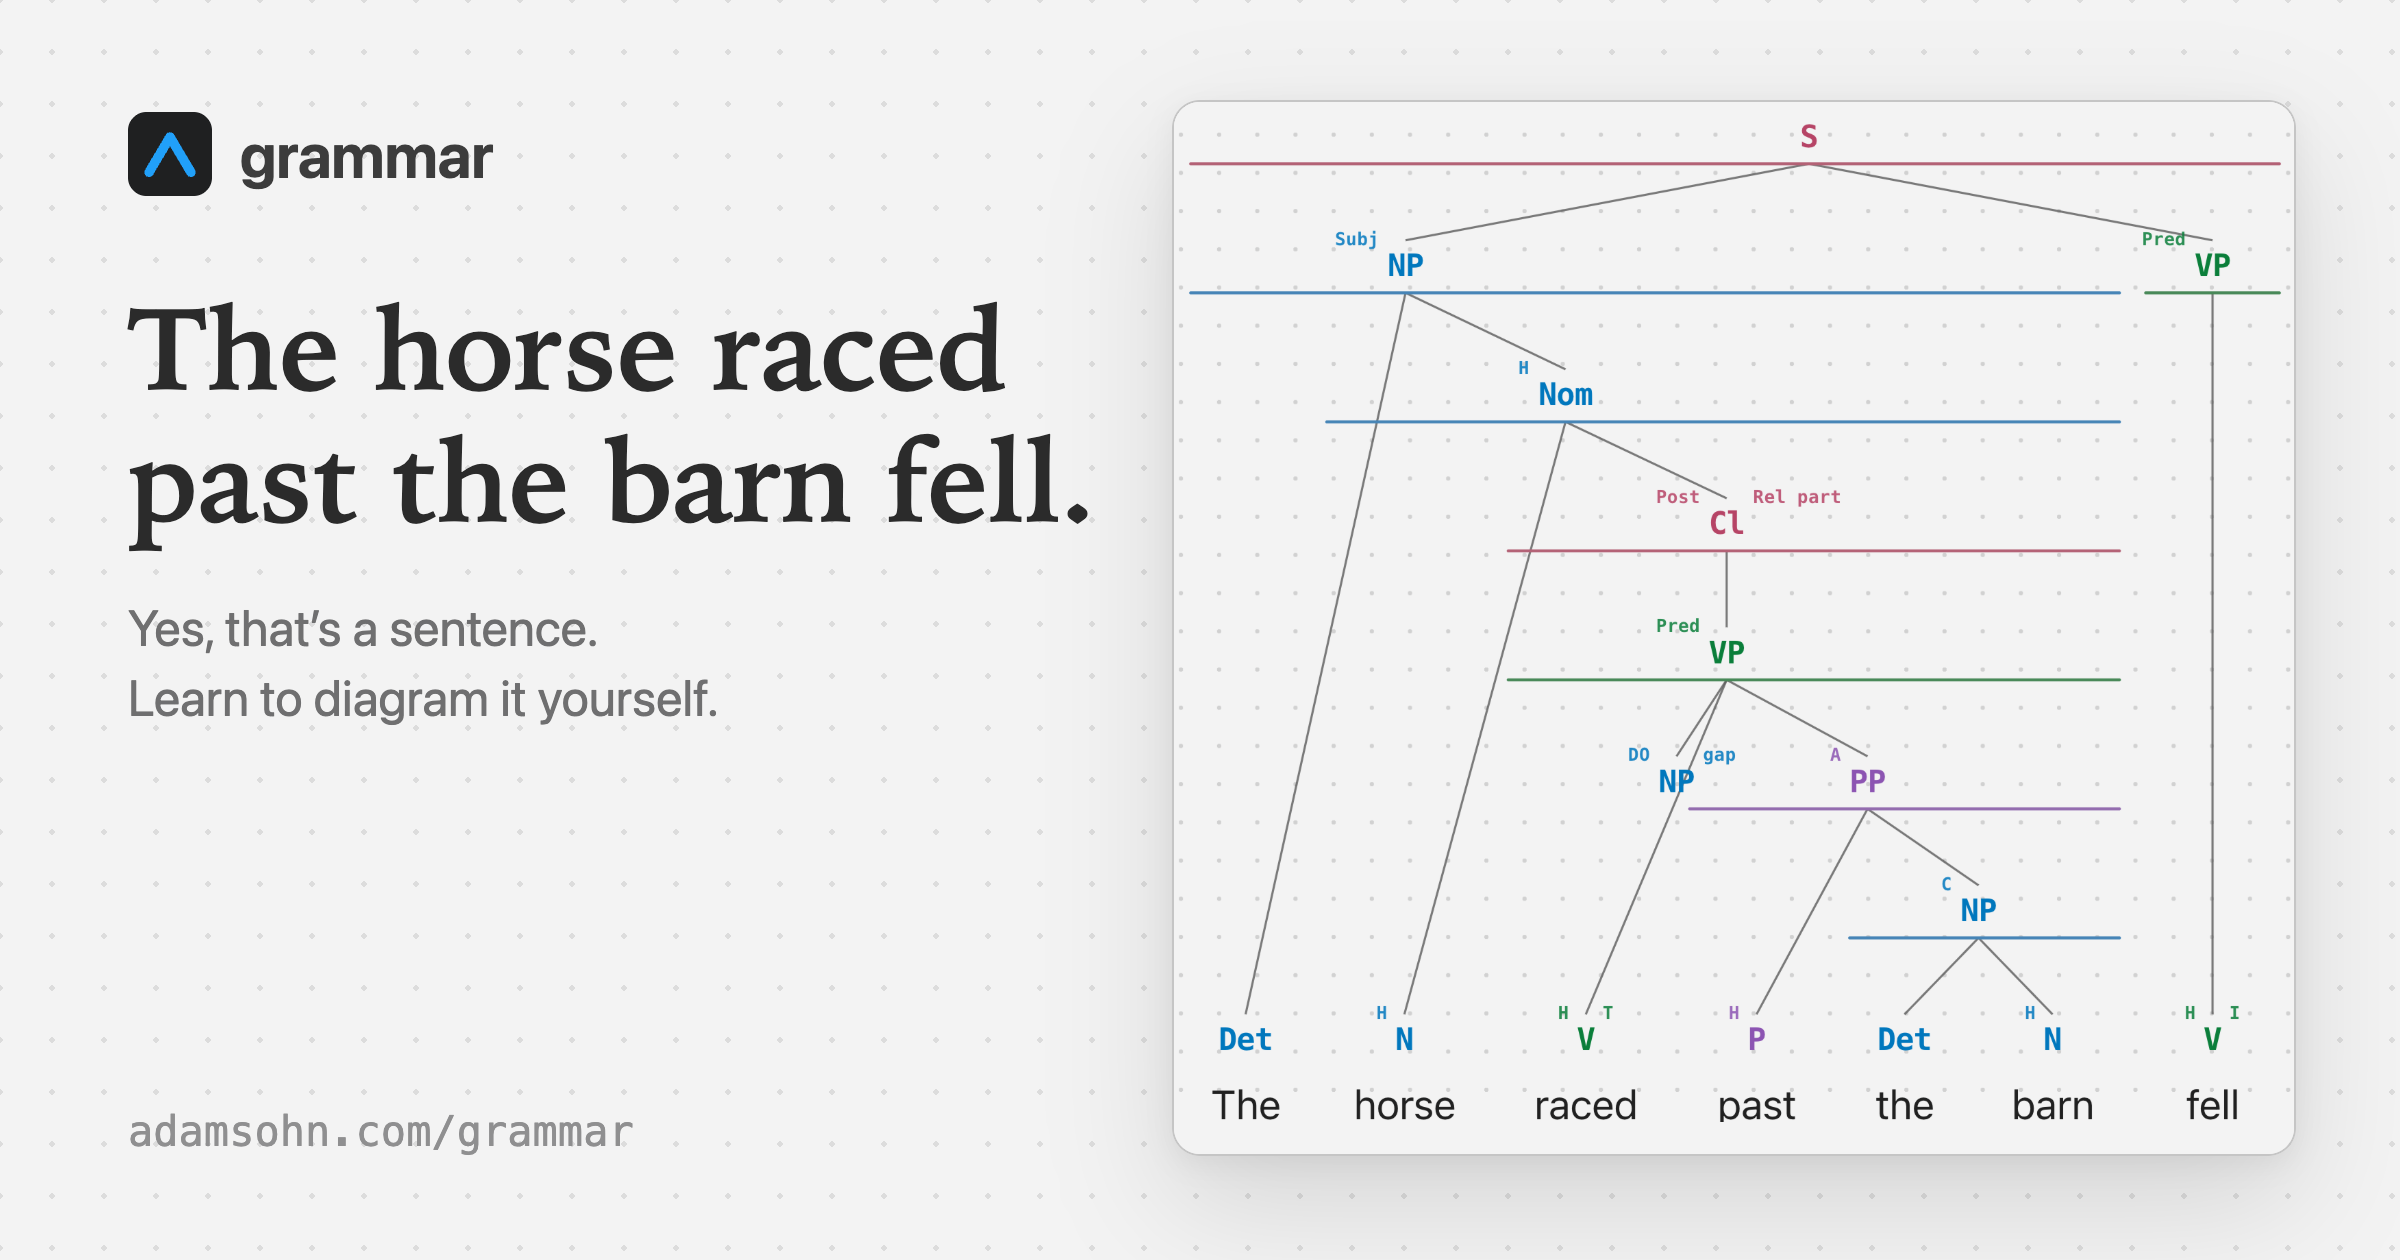
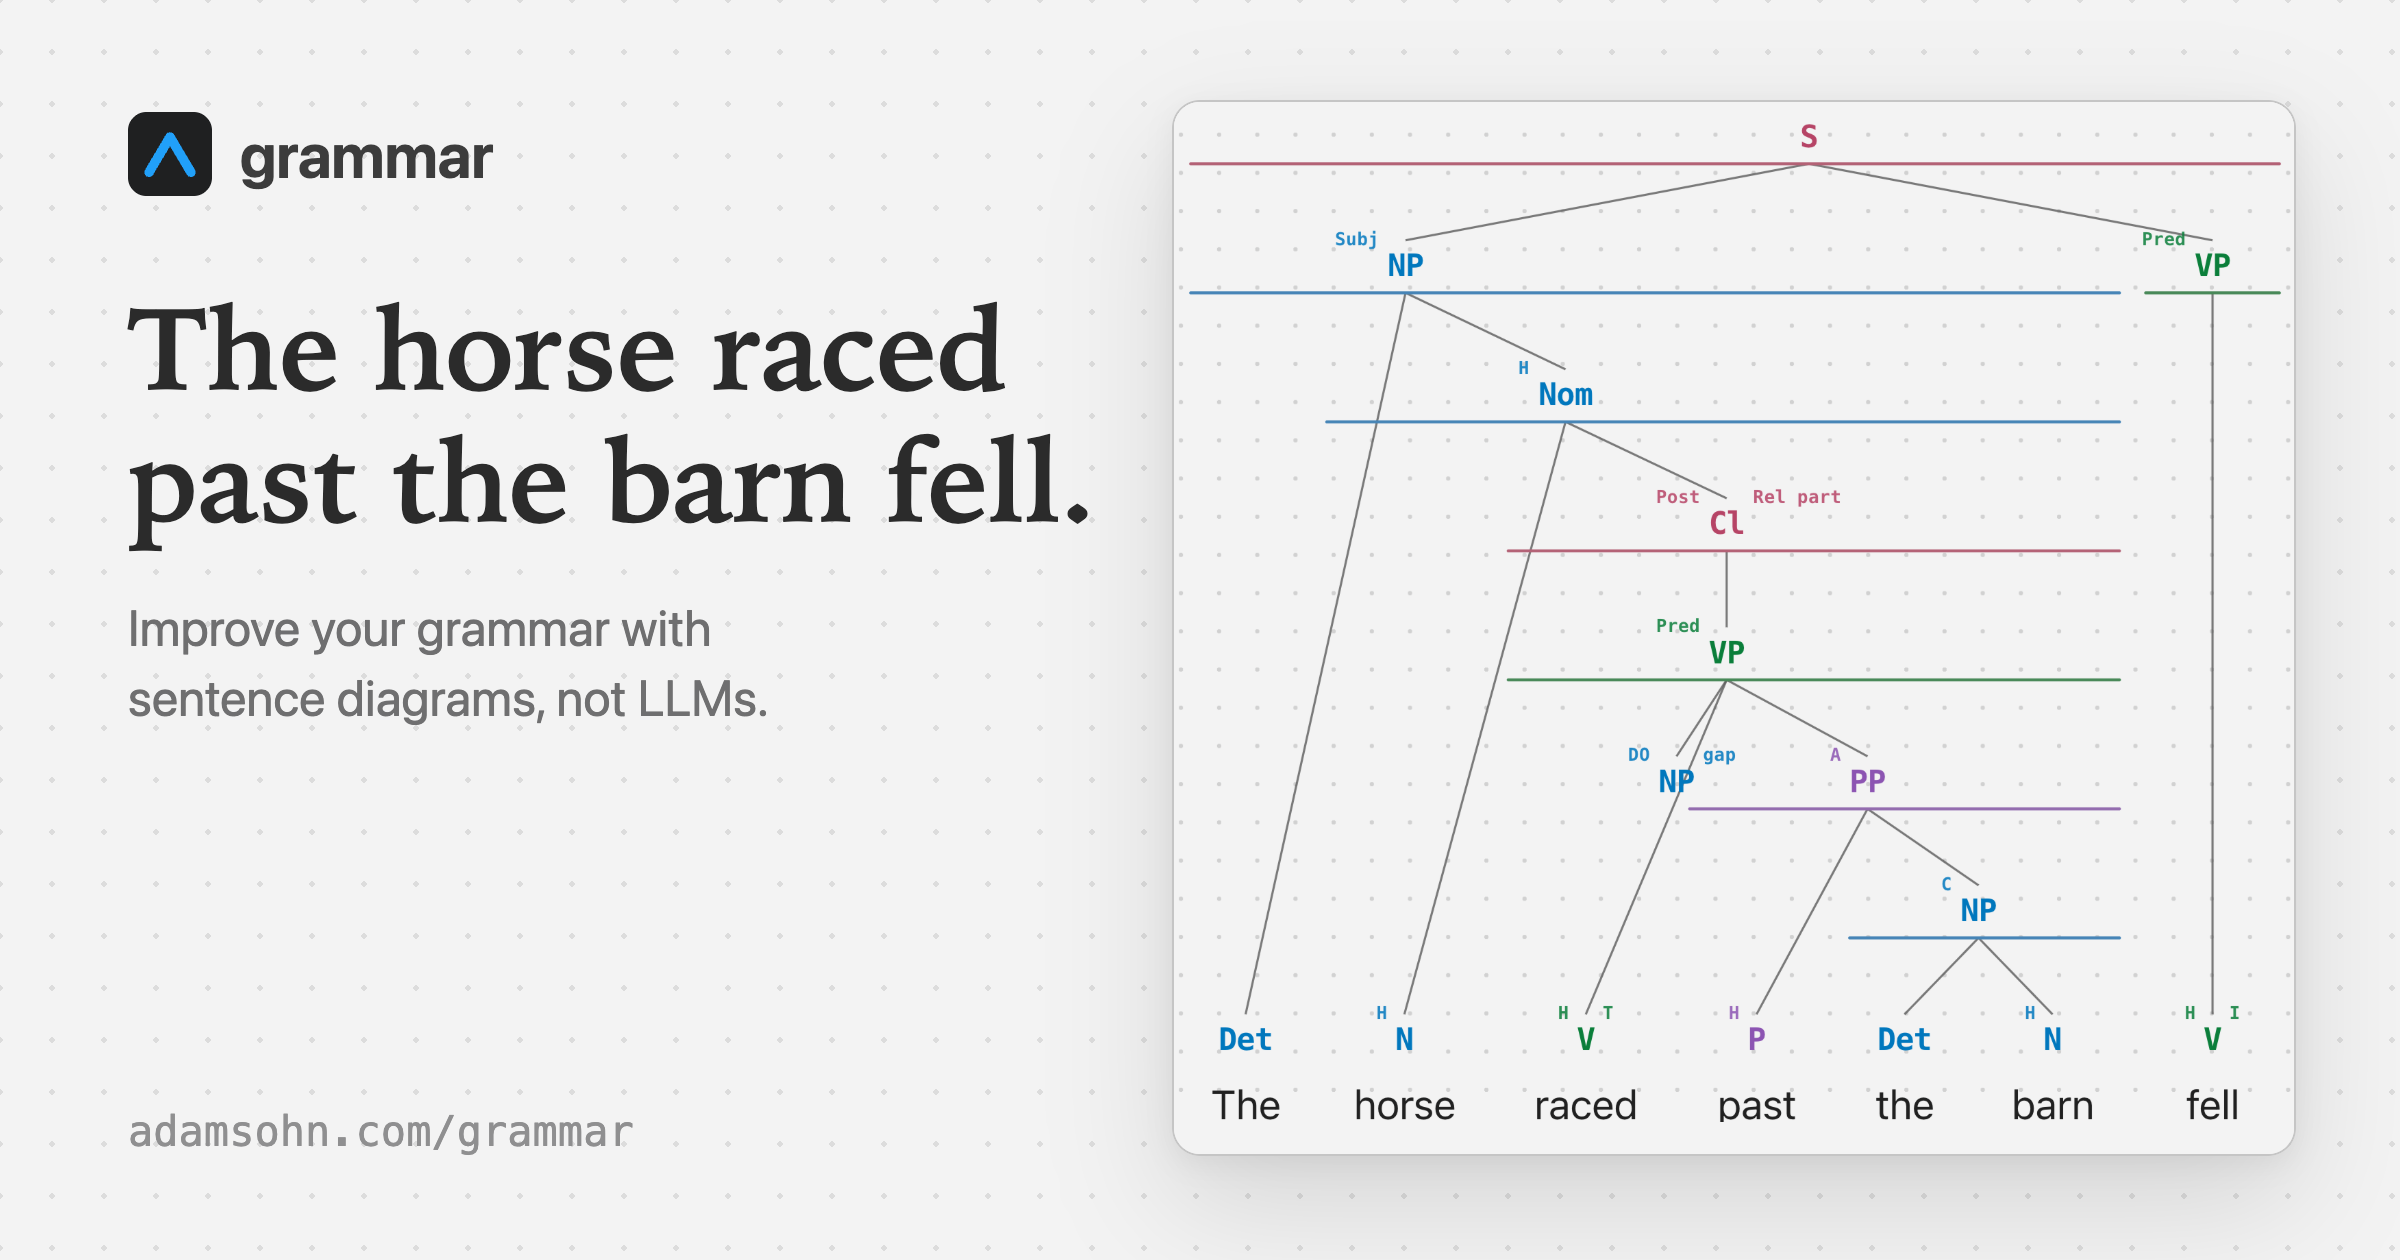
Put the tagline on the card
The og description and the preview image's sub line both say it:
improve your grammar with sentence diagrams, not LLMs.

Changed region(s): [[0.0625, 0.4643, 0.3125, 0.5881]]

diff --git a/src/lib/site.ts b/src/lib/site.ts
@@ -8,7 +8,7 @@ export const site = {
   /* Where the app lives, no trailing slash. */
   origin: 'https://adamsohn.com/grammar',
   name: 'Grammar',
-  description: 'Build sentence diagrams — and find out if you really know how.',
+  description: 'Improve your grammar with sentence diagrams, not LLMs.',
   /* Rendered by scripts/og.mjs from scripts/og.html into static/og.png;
      the diagram inside it is a real app capture from scripts/og-capture.mjs. */
   image: { path: '/og.png', width: 2400, height: 1260 },

diff --git a/scripts/og.html b/scripts/og.html
@@ -114,7 +114,7 @@
         <div class="name">grammar</div>
       </div>
       <h1>The horse raced past the&nbsp;barn fell.</h1>
-      <div class="sub">Yes, that&rsquo;s a sentence.<br />Learn to diagram it yourself.</div>
+      <div class="sub">Improve your grammar with<br />sentence diagrams, not LLMs.</div>
       <div class="url">adamsohn.com/grammar</div>
     </div>
     <div class="card"><img src="og-diagram.png" onload="window.__done = true" /></div>
